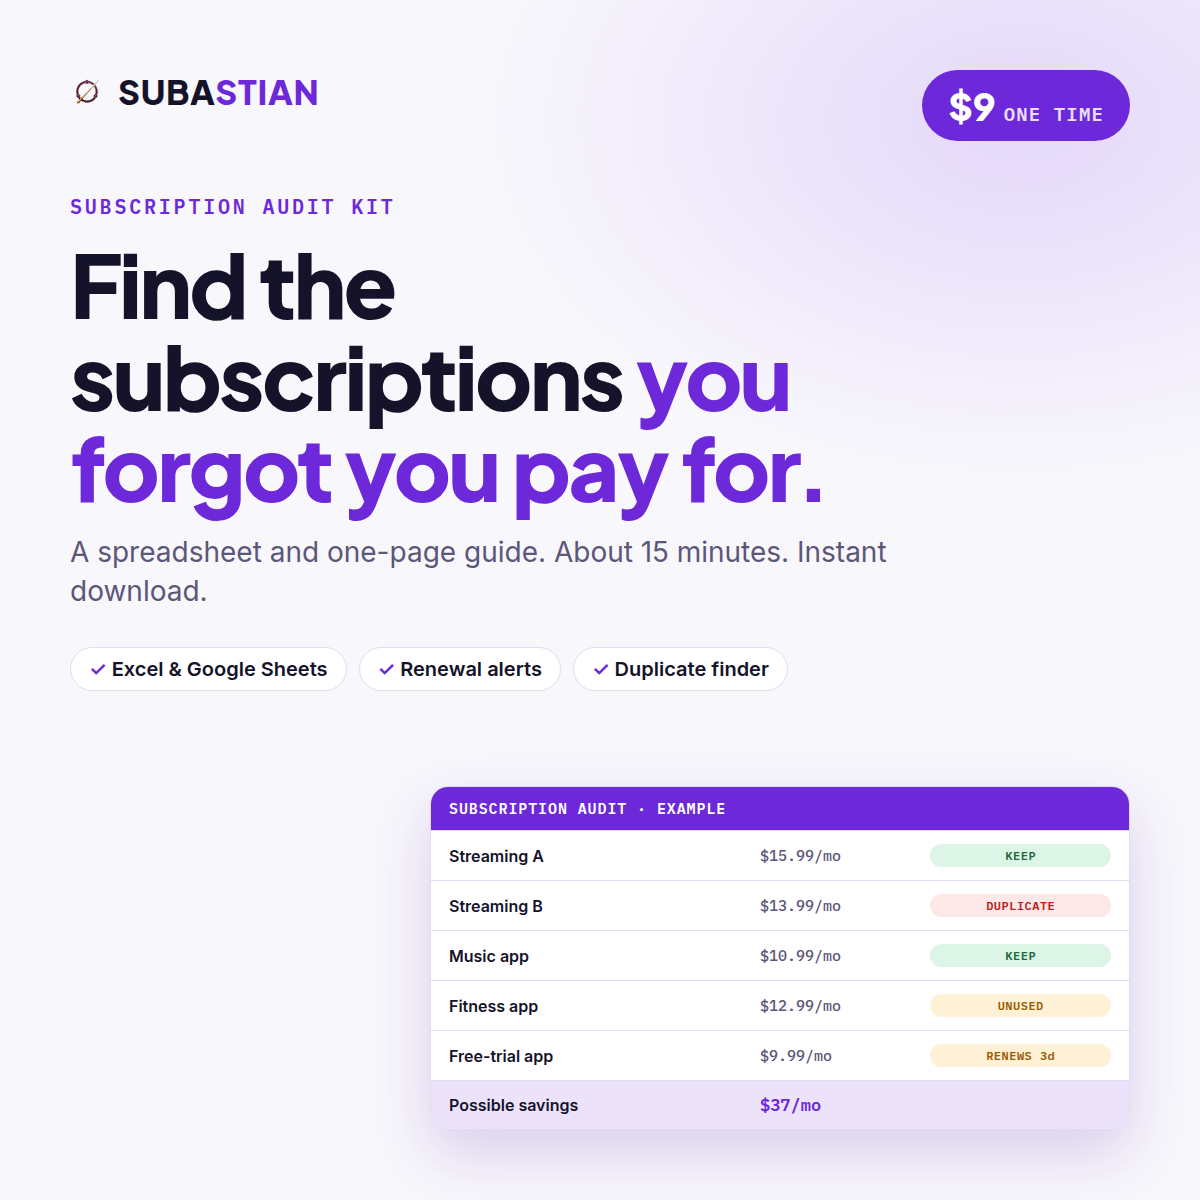
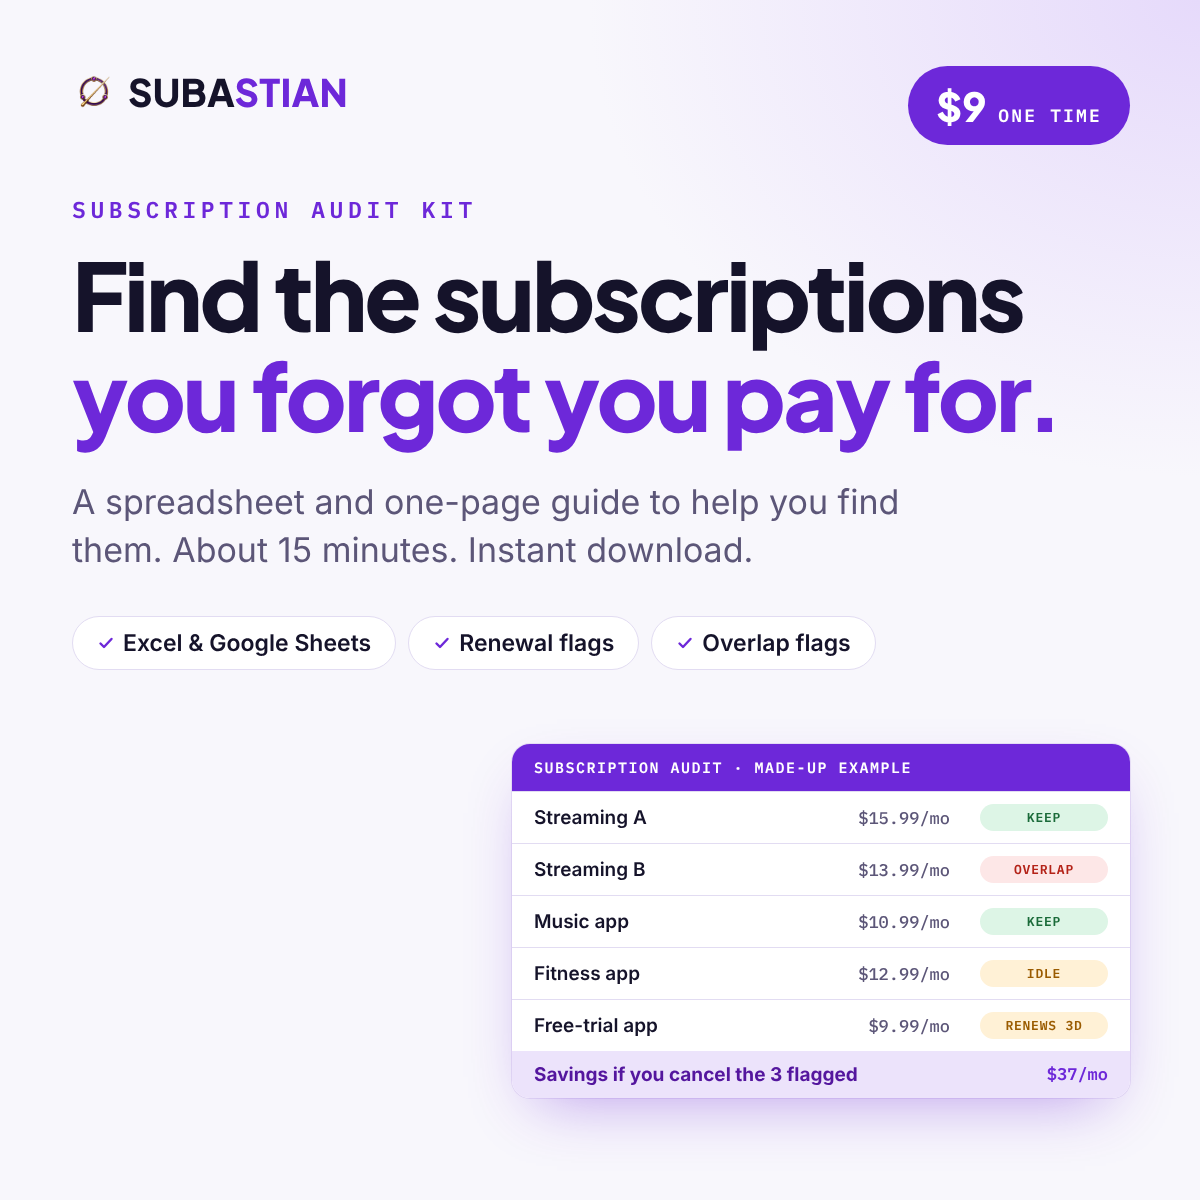
Add $49 audit thank-you page and list template, remake Audit Kit covers, final wording fixes (#14)
* Add post-payment thank-you page and customer list template for the $49 audit

Unlisted (noindex, not in the sitemap, not linked) page that Stripe redirects
to after payment: three clear steps, a blank list template (xlsx) with the
columns the audit needs, a pre-filled email button, the never-send-passwords
notice, and refund and privacy links. Everything it says matches the audit
page. Also fix the audit page's og:url, which pointed at the kit.

Claude-Session: https://claude.ai/code/session_01TEeqpQpgSABNoFNcm8xK1o

* Remake Audit Kit cover images with wording that matches the spreadsheet

The old covers said "Duplicate finder", "Renewal alerts" and showed DUPLICATE /
UNUSED labels and a "Possible savings" total with no note that the data was
made up. The sheet flags tools in the same category (overlap), tools idle 14+
days and renewals, so the covers now say "Overlap flags", "Renewal flags",
OVERLAP / IDLE, label the example as made-up, and describe the savings as
"if you cancel the 3 flagged". Same file names and sizes, so the page's
og:image keeps working.

Claude-Session: https://claude.ai/code/session_01TEeqpQpgSABNoFNcm8xK1o

* Audit Kit page: say "renewal flags", not "renewal alerts"

The spreadsheet shows renewal flags in a column; it does not send alerts.

Claude-Session: https://claude.ai/code/session_01TEeqpQpgSABNoFNcm8xK1o

---------

diff --git a/audit-service/thanks/index.html b/audit-service/thanks/index.html
@@ -3,17 +3,10 @@
 <head>
 <meta charset="utf-8">
 <meta name="viewport" content="width=device-width, initial-scale=1">
-<title>Done-for-You Software Subscription Audit | Subastian</title>
-<meta name="description" content="I audit your software and subscription spending and send a clear savings report in 3 business days. Founding client price for the first 5 clients.">
-
-<link rel="canonical" href="https://subastian.us/audit-service/">
+<title>Thank you: what to send next | Subastian</title>
+<meta name="robots" content="noindex, nofollow">
+<link rel="canonical" href="https://subastian.us/audit-service/thanks/">
 <meta name="author" content="Subastian, LLC">
-<meta property="og:type" content="website"><meta property="og:site_name" content="Subastian">
-<meta property="og:title" content="Done-for-you software subscription audit"><meta property="og:description" content="A clear savings report on your subscriptions in 3 business days. Founding client price for the first 5 clients.">
-<meta property="og:image" content="https://subastian.us/hero.jpg">
-<meta property="og:image:width" content="1200"><meta property="og:image:height" content="630">
-<meta property="og:url" content="https://subastian.us/audit-service/">
-<meta name="twitter:card" content="summary_large_image">
 <link rel="icon" href="/emblem.png" type="image/png">
 <link rel="preconnect" href="https://fonts.googleapis.com">
 <link rel="preconnect" href="https://fonts.gstatic.com" crossorigin>
@@ -140,72 +133,48 @@
 
 <header class="topbar">
   <a class="brand" href="/" aria-label="Subastian home"><img class="brand-mark" src="/emblem.png" alt="" width="24" height="24"><span class="wm">SUBA<span>STIAN</span></span></a>
-  <a href="/" class="btn-ghost">&larr; Back to home</a>
+  <a href="/audit-service/" class="btn-ghost">&larr; Back to the audit page</a>
 </header>
 
 <main>
   <div class="wrap">
-    <p class="eyebrow">Done-for-you audit</p>
-    <h1>I'll audit your software subscriptions and show you what to cut.</h1>
-    <p class="updated">A clear savings report in 3 business days. No logins or card numbers needed.</p>
+    <p class="eyebrow">Your audit</p>
+    <h1>Thank you. Here's what to send me next.</h1>
+    <p class="updated">If you just paid, your Stripe receipt is on its way to your email. Your audit starts as soon as I have your list.</p>
 
-    <section id="price">
+    <section>
+      <h2>Three steps</h2>
+      <ol class="steps">
+        <li data-n="1"><strong>Gather your list.</strong> For each subscription: the tool name, the price, how often it bills (monthly, quarterly or annual), the next renewal date and when you last used it. Up to 30 tools. Your card and bank statements, PayPal's automatic payments and the subscription pages in your phone's app store are the quickest places to look.</li>
+        <li data-n="2"><strong>Send it to me.</strong> Fill in the template below, paste your list into an email, or attach a screenshot. If you send a statement, hide everything except the vendor names and amounts.</li>
+        <li data-n="3"><strong>Get your report.</strong> Within 3 business days of receiving your list, you get your audit spreadsheet, a one-page savings summary and a renewal calendar. The 15-minute walkthrough call is optional.</li>
+      </ol>
+    </section>
+
+    <section>
       <div class="cards">
         <div class="card">
-          <h3>$49 &middot; founding client price</h3>
-          <p>For my first 5 clients. In return, I ask for your honest feedback after you read the report. After that, the price is $149.</p>
-          <a class="btn-cta" href="mailto:daniel@subastian.us?subject=Audit%20request&body=Hi%20Daniel%2C%0A%0AI%27d%20like%20a%20software%20subscription%20audit.%0A%0AName%3A%0ABusiness%20or%20role%3A%0ARoughly%20how%20many%20tools/subscriptions%20I%20pay%20for%3A%0AMy%20biggest%20concern%20%28cost%2C%20duplicates%2C%20renewals%29%3A%0ABest%20way%20to%20reach%20me%3A%0A%0A%28I%20understand%20I%20will%20never%20be%20asked%20for%20passwords%20or%20card%20numbers.%29">Request my audit</a>
-          <p class="hint">No payment yet. I reply with what's included, then send a secure payment link only if you want to go ahead. 30-day money-back guarantee.</p>
+          <h3>Blank list template</h3>
+          <p>A spreadsheet with the columns I need. Fill in the yellow cells and email it back. Works in Excel and Google Sheets.</p>
+          <a class="btn-cta" href="Subastian-Audit-List-Template.xlsx" download>Download the template</a>
+        </div>
+        <div class="card">
+          <h3>Email me your list</h3>
+          <p>Opens an email to me with the subject and a short note filled in. Attach the template or paste your list.</p>
+          <a class="btn-cta" href="mailto:daniel@subastian.us?subject=My%20audit%20list&body=Hi%20Daniel%2C%0A%0AHere%20is%20my%20subscription%20list%20for%20the%20audit.%0A%0AName%3A%0ABusiness%20%28optional%29%3A%0A%0AFor%20each%20subscription%3A%20tool%20name%2C%20price%2C%20how%20often%20it%20bills%20%28monthly%2C%20quarterly%20or%20annual%29%2C%20next%20renewal%20date%2C%20and%20when%20I%20last%20used%20it.%20%28Attach%20the%20template%2C%20paste%20the%20list%20below%2C%20or%20attach%20a%20screenshot.%29%0A%0A%28I%20understand%20I%20should%20never%20send%20passwords%2C%20card%20numbers%20or%20login%20codes.%29%0A">Email my list</a>
         </div>
       </div>
     </section>
 
     <section>
-      <h2>What you get</h2>
-      <ul class="perks">
-        <li><strong>An audit spreadsheet</strong> with every tool and subscription you send me, what each costs per month and per year, and what to keep, review or cancel.</li>
-        <li><strong>A one-page savings summary</strong> in plain English, with the top actions ranked by money saved.</li>
-        <li><strong>A renewal calendar</strong> showing what charges next, so nothing renews by surprise.</li>
-        <li><strong>Duplicate and overlap flags,</strong> where two tools do the same job.</li>
-        <li><strong>An optional 15-minute walkthrough call</strong> to go over the report.</li>
-      </ul>
-      <p class="hint">Covers up to 30 tools and subscriptions. Need more? Ask and I'll quote it.</p>
+      <div class="pre-launch-note"><strong>Never send passwords, card numbers or login codes.</strong> I will never ask for them. I use your list only to prepare your report and don't share it. See the <a href="/privacy/">Privacy Policy</a>.</div>
     </section>
 
     <section>
-      <h2>How it works</h2>
-      <ol class="steps">
-        <li data-n="1"><strong>Request your audit.</strong> Send a short email with how many tools you pay for and what worries you most. I reply within one business day.</li>
-        <li data-n="2"><strong>Send your list.</strong> Tool name, price, how often it bills, renewal date and when you last used it. A spreadsheet, a screenshot or a pasted list all work. I never need passwords or card numbers.</li>
-        <li data-n="3"><strong>Get your report.</strong> Within 3 business days of receiving your list, you get the spreadsheet, the one-page summary and the renewal calendar.</li>
-      </ol>
-    </section>
-
-    <section>
-      <h2>Who it's for</h2>
-      <p>Small business owners, freelancers, agencies and affiliate marketers who pay for a lot of tools and suspect some of it is wasted. Anyone who has said "I should really check what I'm paying for" and never found the time.</p>
-    </section>
-
-    <section>
-      <h2>About me</h2>
-      <p>I'm Daniel Padilla, founder of Subastian, LLC in Denver, Colorado. I'm building tools that help people stop paying for software they forgot about. I'm new to doing audits for other people, which is why the first 5 clients get the founding price in exchange for honest feedback. I'll never claim results I haven't delivered.</p>
-    </section>
-
-    <section>
-      <h2>Questions</h2>
-      <p><strong>Do you need access to my accounts?</strong> No. You send me a list. Never send passwords, card numbers or login codes. If a statement helps, hide everything except the vendor names and amounts.</p>
-      <p><strong>What if you can't find any savings?</strong> Then I'll tell you honestly and refund you in full.</p>
-      <p><strong>Can you cancel things for me?</strong> No. I show you what to cancel and give you scripts to do it fast. You stay in control.</p>
-      <p><strong>Is this financial, legal or tax advice?</strong> No. It's an organized review of your own subscription data. Savings figures are estimates, not guarantees.</p>
-      <p><strong>Is my information private?</strong> I use your list only to prepare your report and don't share it. See the <a href="/privacy/">Privacy Policy</a>.</p>
-      <p><strong>Refunds?</strong> Full refund within 30 days of payment. See the <a href="/refund-policy/">Refund policy</a>.</p>
-    </section>
-
-    <section class="final" id="request">
-      <h2>Ready to see what you're overpaying for?</h2>
-      <p>Request your audit. It takes about two minutes, and there's no payment until we agree on what's included.</p>
-      <a class="btn-cta" href="mailto:daniel@subastian.us?subject=Audit%20request&body=Hi%20Daniel%2C%0A%0AI%27d%20like%20a%20software%20subscription%20audit.%0A%0AName%3A%0ABusiness%20or%20role%3A%0ARoughly%20how%20many%20tools/subscriptions%20I%20pay%20for%3A%0AMy%20biggest%20concern%20%28cost%2C%20duplicates%2C%20renewals%29%3A%0ABest%20way%20to%20reach%20me%3A%0A%0A%28I%20understand%20I%20will%20never%20be%20asked%20for%20passwords%20or%20card%20numbers.%29">Request my audit</a>
-      <p class="hint">Prefer a cheaper do-it-yourself option? Try the <a href="/audit-kit/">Subscription Audit Kit ($9)</a>.</p>
+      <h2>Good to know</h2>
+      <p>You're one of my first clients, so thank you. In return for the founding price, I'll ask for your honest feedback after you read the report.</p>
+      <p>Savings figures are estimates based on the list you send, not guarantees, and this is an organized review of your own subscription data, not financial, legal or tax advice.</p>
+      <p>Questions, or something wrong with your payment? Email <a href="mailto:daniel@subastian.us">daniel@subastian.us</a>. Full refund within 30 days of payment: see the <a href="/refund-policy/">refund policy</a>.</p>
     </section>
   </div>
 </main>
@@ -214,10 +183,11 @@
   <div class="wrap">
     <div class="foot-row">
       <div>Subastian, LLC &middot; Denver, CO</div>
-      <div><a href="mailto:daniel@subastian.us">daniel@subastian.us</a> &middot; <a href="/partners/">Partners</a> &middot; <a href="/terms/">Terms</a> &middot; <a href="/privacy/">Privacy</a> &middot; <a href="/refund-policy/">Refunds</a></div>
+      <div><a href="mailto:daniel@subastian.us">daniel@subastian.us</a> &middot; <a href="/terms/">Terms</a> &middot; <a href="/privacy/">Privacy</a> &middot; <a href="/refund-policy/">Refunds</a></div>
     </div>
   </div>
 </footer>
 
+<script>document.addEventListener('DOMContentLoaded', function(){ if (window.subTrack) subTrack('audit_thankyou_view', {}); });</script>
 </body>
 </html>

diff --git a/audit-kit/index.html b/audit-kit/index.html
@@ -153,7 +153,7 @@
       <div class="cards">
         <div class="card">
           <h3>$<span class="js-price">9</span> &middot; one time</h3>
-          <p>List what you pay for once. Monthly and annual cost, renewal alerts, overlap, unused subscriptions and savings all calculate for you.</p>
+          <p>List what you pay for once. Monthly and annual cost, renewal flags, overlap, idle subscriptions and savings all calculate for you.</p>
           <a class="btn-cta js-checkout" data-pos="top" href="/#waitlist">Get the Audit Kit</a>
           <p class="hint js-fine">Secure checkout. Full refund within 30 days, no questions asked.</p>
         </div>

diff --git a/README.md b/README.md
@@ -53,6 +53,7 @@ subastian-site/
 ├── audit-kit/              $9 Subscription Audit Kit sales page (Gumroad checkout)
 ├── bonus/                  Free roster bonus: Trial Tracker (.xlsx) and Cancel & Refund Scripts (.pdf)
 ├── leak-test/              Free 60-second Subscription Leak Test (lead magnet: score, estimate, printable plan, roster signup)
+├── audit-service/          $49 done-for-you audit page (+ audit-service/thanks/: unlisted post-payment page and customer list template)
 ├── stack-audit/            Free subscription waste calculator
 ├── partners/               Founding Partner program (+ partners/kit/ promo assets)
 ├── terms/  privacy/  refund-policy/
